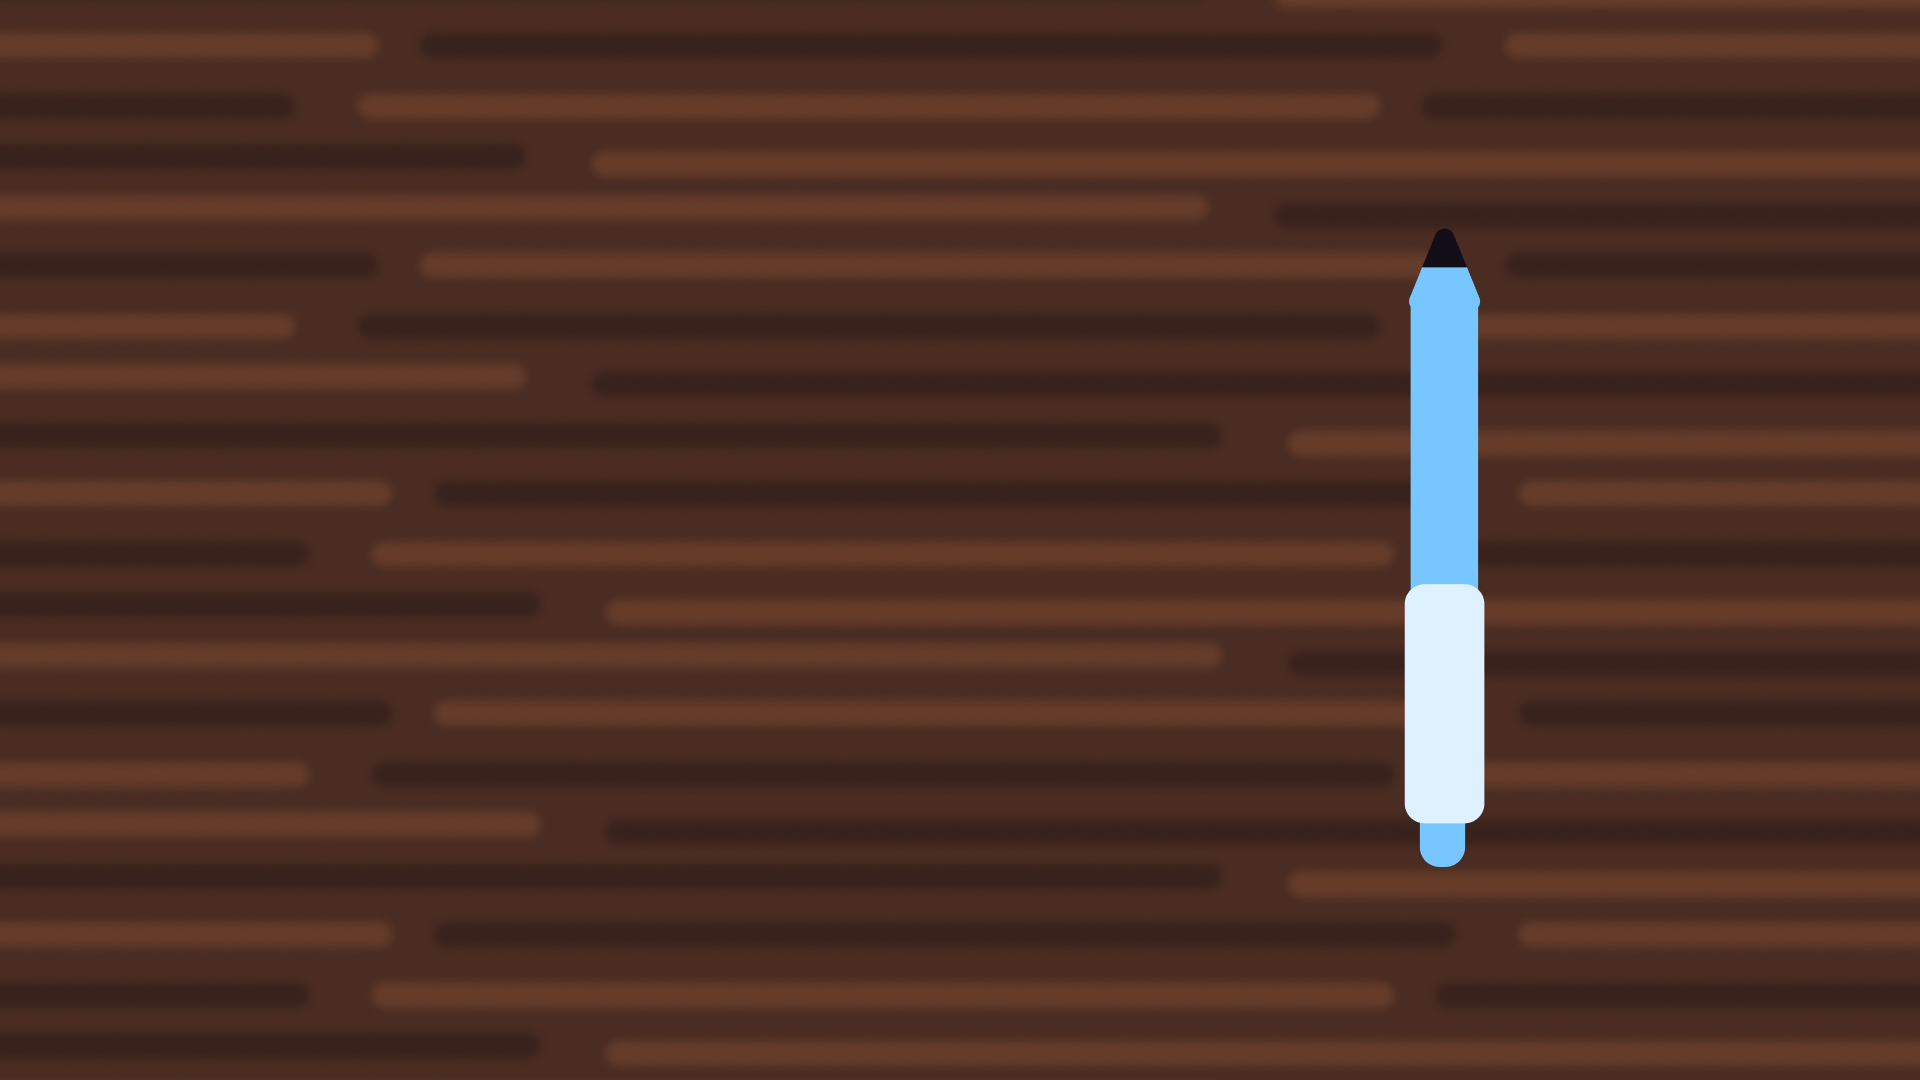
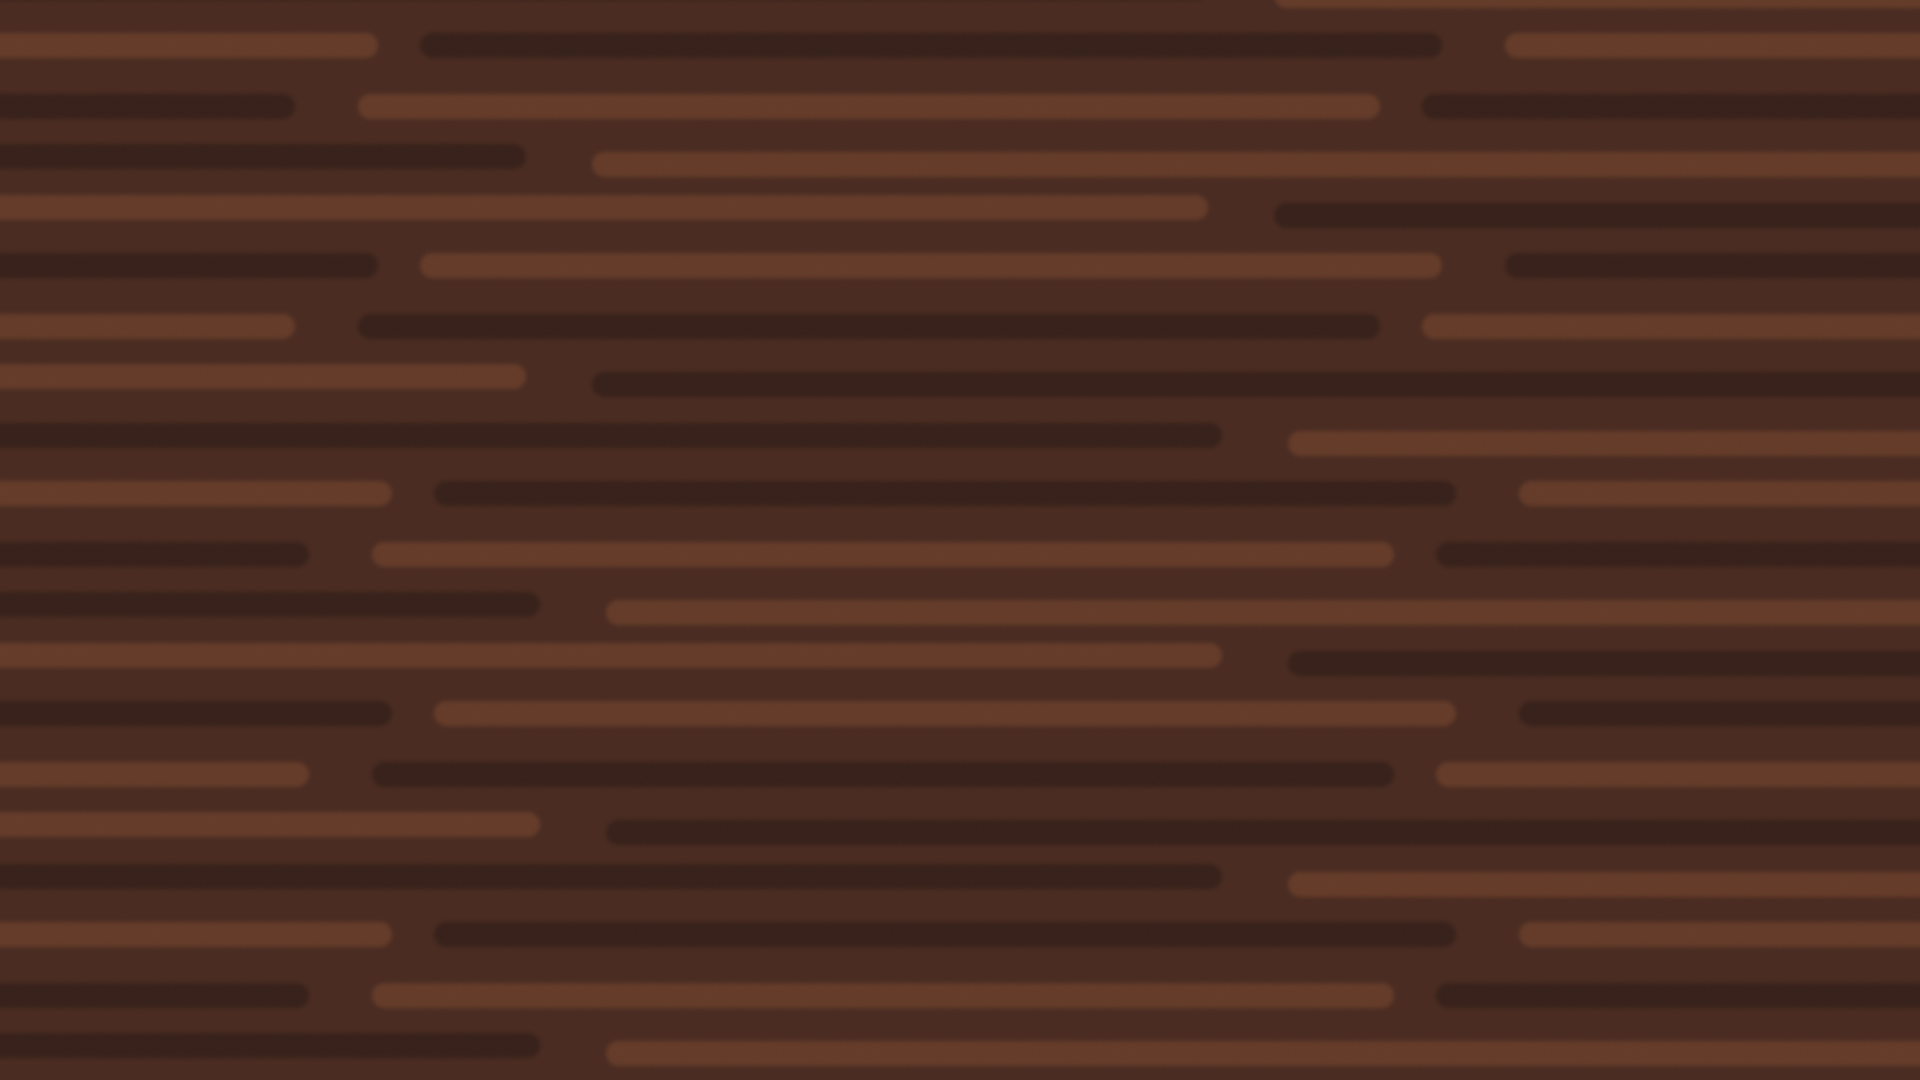
Make pen separate img

Changed region(s): [[0.7188, 0.2139, 0.7812, 0.7944]]

diff --git a/css/reality.css b/css/reality.css
@@ -32,6 +32,15 @@ article:last-of-type > div > div {
 	background-size: contain;
 }
 
+article:last-of-type > div > img:first-of-type {
+	position: absolute;
+	bottom: 5em;
+	left: calc(50% + 50vw / 2 - 2em);
+	transform: translateX(-50%);
+
+	height: 45vh;
+}
+
 article:last-of-type > div > div p {
 	position: relative;
 	top: 2em;

diff --git a/script/script.js b/script/script.js
@@ -455,3 +455,8 @@ const stopDynamicAnimation = (element, animationName) => {
 	element.classList.remove(animationName)
 	console.log(stopAnimation)
 }
+
+livesSection.classList.remove("hidden")
+realityArticle.classList.remove("hidden")
+footer.classList.add("hidden")
+fantasyArticle.classList.add("hidden")

diff --git a/index.html b/index.html
@@ -223,6 +223,8 @@
 					<div>
 						<p>00:30</p>
 					</div>
+
+					<img src="img/pen.svg" />
 				</div>
 				<!-- LEVEL 1 -->
 				<section>
